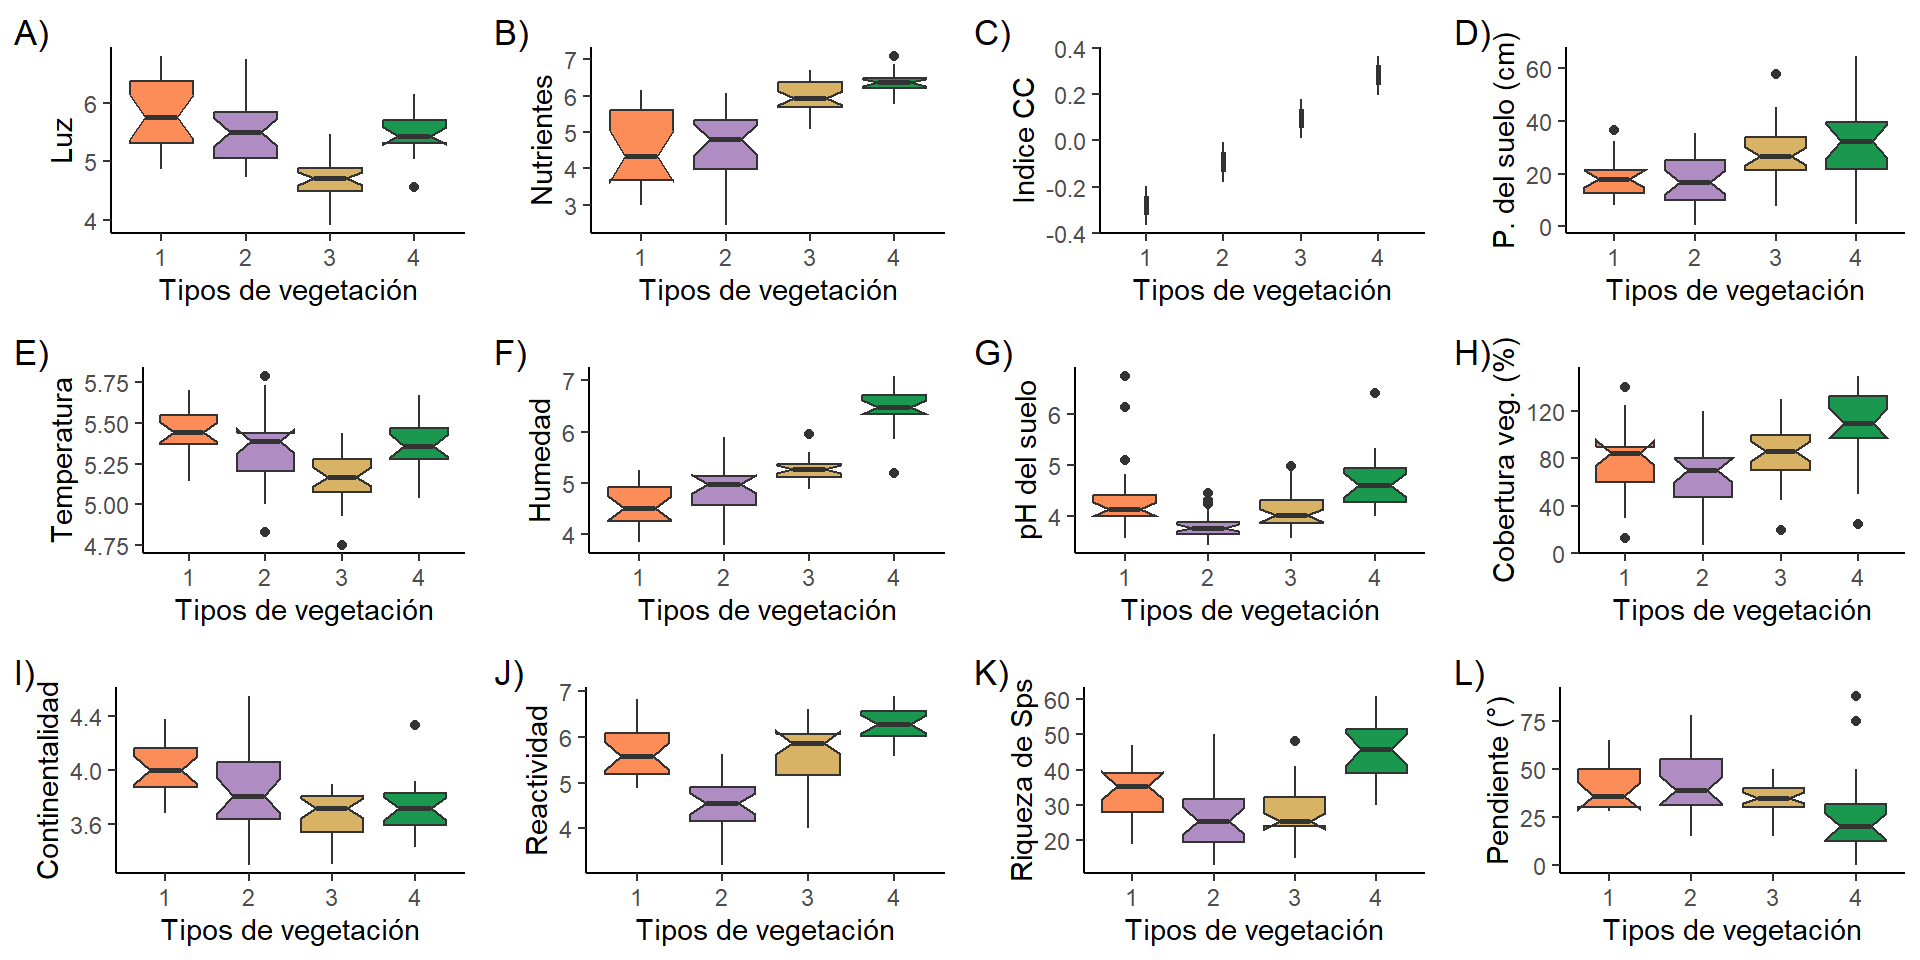
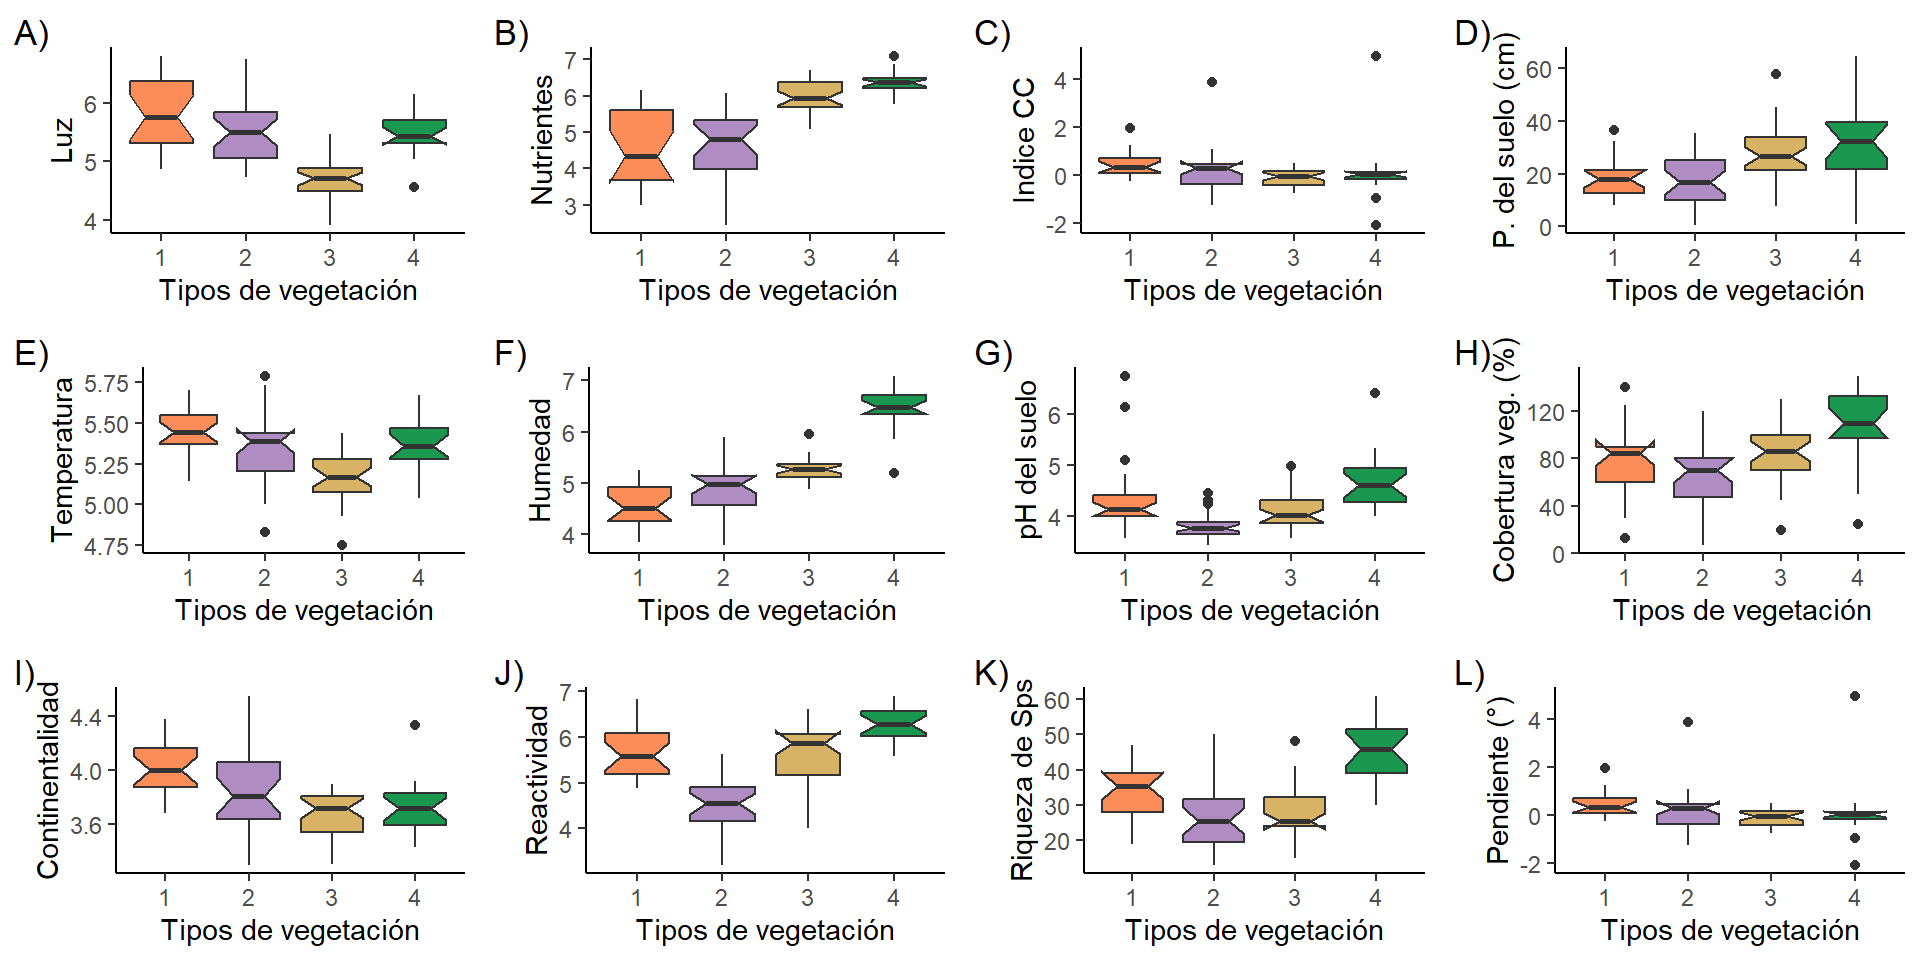
si

diff --git a/Informe_2doseguimiento_V2.html b/Informe_2doseguimiento_V2.html
@@ -707,7 +707,7 @@ Figura&nbsp;6: Distribución de los tipos de emsamblajes vegetales en relación 
 <span id="cb11-29"><a href="#cb11-29" aria-hidden="true" tabindex="-1"></a>  <span class="fu">labs</span>( <span class="at">x =</span> <span class="st">"Tipos de vegetación"</span>, <span class="at">y =</span> <span class="st">"Reactividad"</span>, <span class="at">tag =</span> <span class="st">"J)"</span>)</span>
 <span id="cb11-30"><a href="#cb11-30" aria-hidden="true" tabindex="-1"></a><span class="co">#---------------------------------------------------------------------------------#</span></span>
 <span id="cb11-31"><a href="#cb11-31" aria-hidden="true" tabindex="-1"></a></span>
-<span id="cb11-32"><a href="#cb11-32" aria-hidden="true" tabindex="-1"></a>f7 <span class="ot">=</span> <span class="fu">ggplot</span>(datos_env,<span class="fu">aes</span>(<span class="at">x=</span><span class="fu">factor</span>(datos_env<span class="sc">$</span>Grupos),<span class="at">y=</span> datos_env<span class="sc">$</span>CCS.SE)) <span class="sc">+</span> </span>
+<span id="cb11-32"><a href="#cb11-32" aria-hidden="true" tabindex="-1"></a>f7 <span class="ot">=</span> <span class="fu">ggplot</span>(datos_env,<span class="fu">aes</span>(<span class="at">x=</span><span class="fu">factor</span>(datos_env<span class="sc">$</span>Grupos),<span class="at">y=</span> datos_env<span class="sc">$</span>CCSO)) <span class="sc">+</span> </span>
 <span id="cb11-33"><a href="#cb11-33" aria-hidden="true" tabindex="-1"></a>  <span class="fu">geom_boxplot</span>(<span class="fu">aes</span>(<span class="at">fill =</span> <span class="fu">factor</span>(datos_env<span class="sc">$</span>Grupos)), <span class="at">notch =</span> <span class="cn">TRUE</span>) <span class="sc">+</span> <span class="fu">theme_classic</span>() <span class="sc">+</span> </span>
 <span id="cb11-34"><a href="#cb11-34" aria-hidden="true" tabindex="-1"></a>  <span class="fu">guides</span>(<span class="at">fill =</span> <span class="st">"none"</span>) <span class="sc">+</span>   <span class="fu">scale_fill_manual</span>(<span class="at">values =</span> <span class="fu">c</span>(<span class="st">"#fc8d59"</span>,<span class="st">"#af8dc3"</span>,<span class="st">"#d8b365"</span>,<span class="st">"#1a9850"</span>)) <span class="sc">+</span></span>
 <span id="cb11-35"><a href="#cb11-35" aria-hidden="true" tabindex="-1"></a>  <span class="fu">labs</span>( <span class="at">x =</span> <span class="st">"Tipos de vegetación"</span>, <span class="at">y =</span> <span class="st">"Indice CC"</span>, <span class="at">tag =</span> <span class="st">"C)"</span>)</span>
@@ -732,7 +732,7 @@ Figura&nbsp;6: Distribución de los tipos de emsamblajes vegetales en relación 
 <span id="cb11-54"><a href="#cb11-54" aria-hidden="true" tabindex="-1"></a>  <span class="fu">guides</span>(<span class="at">fill =</span> <span class="st">"none"</span>) <span class="sc">+</span>   <span class="fu">scale_fill_manual</span>(<span class="at">values =</span> <span class="fu">c</span>(<span class="st">"#fc8d59"</span>,<span class="st">"#af8dc3"</span>,<span class="st">"#d8b365"</span>,<span class="st">"#1a9850"</span>)) <span class="sc">+</span></span>
 <span id="cb11-55"><a href="#cb11-55" aria-hidden="true" tabindex="-1"></a>  <span class="fu">labs</span>( <span class="at">x =</span> <span class="st">"Tipos de vegetación"</span>, <span class="at">y =</span> <span class="st">"Riqueza de Sps"</span>, <span class="at">tag =</span> <span class="st">"K)"</span>)</span>
 <span id="cb11-56"><a href="#cb11-56" aria-hidden="true" tabindex="-1"></a></span>
-<span id="cb11-57"><a href="#cb11-57" aria-hidden="true" tabindex="-1"></a>f12  <span class="ot">=</span> <span class="fu">ggplot</span>(datos_env,<span class="fu">aes</span>(<span class="at">x=</span><span class="fu">factor</span>(datos_env<span class="sc">$</span>Grupos),<span class="at">y=</span> datos_env<span class="sc">$</span>Pendiente)) <span class="sc">+</span> </span>
+<span id="cb11-57"><a href="#cb11-57" aria-hidden="true" tabindex="-1"></a>f12  <span class="ot">=</span> <span class="fu">ggplot</span>(datos_env,<span class="fu">aes</span>(<span class="at">x=</span><span class="fu">factor</span>(datos_env<span class="sc">$</span>Grupos),<span class="at">y=</span> datos_env<span class="sc">$</span>CCSO)) <span class="sc">+</span> </span>
 <span id="cb11-58"><a href="#cb11-58" aria-hidden="true" tabindex="-1"></a>  <span class="fu">geom_boxplot</span>(<span class="fu">aes</span>(<span class="at">fill =</span> <span class="fu">factor</span>(datos_env<span class="sc">$</span>Grupos)), <span class="at">notch =</span> <span class="cn">TRUE</span>) <span class="sc">+</span> <span class="fu">theme_classic</span>() <span class="sc">+</span> </span>
 <span id="cb11-59"><a href="#cb11-59" aria-hidden="true" tabindex="-1"></a>  <span class="fu">guides</span>(<span class="at">fill =</span> <span class="st">"none"</span>) <span class="sc">+</span>   <span class="fu">scale_fill_manual</span>(<span class="at">values =</span> <span class="fu">c</span>(<span class="st">"#fc8d59"</span>,<span class="st">"#af8dc3"</span>,<span class="st">"#d8b365"</span>,<span class="st">"#1a9850"</span>)) <span class="sc">+</span></span>
 <span id="cb11-60"><a href="#cb11-60" aria-hidden="true" tabindex="-1"></a>  <span class="fu">labs</span>( <span class="at">x =</span> <span class="st">"Tipos de vegetación"</span>, <span class="at">y =</span> <span class="st">"Pendiente (°)"</span>, <span class="at">tag =</span> <span class="st">"L)"</span>)</span>
@@ -1015,7 +1015,7 @@ Figura&nbsp;12: Relación entre la cobertura de la especie Abies alba con respec
 </details>
 </div>
 <ul>
-<li><strong>Paso 2:</strong> Se determinan las coordenadas de los sitos en los ejes <strong>NMDS1</strong> y <strong>NMDS2</strong>.</li>
+<li><strong>Paso 2:</strong> Se determinan las coordenadas de los sitios en los ejes <strong>NMDS1</strong> y <strong>NMDS2</strong>.</li>
 </ul>
 <div class="cell">
 <details class="code-fold">
